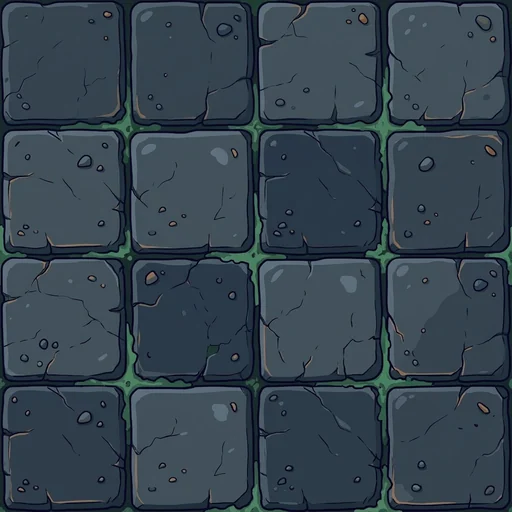
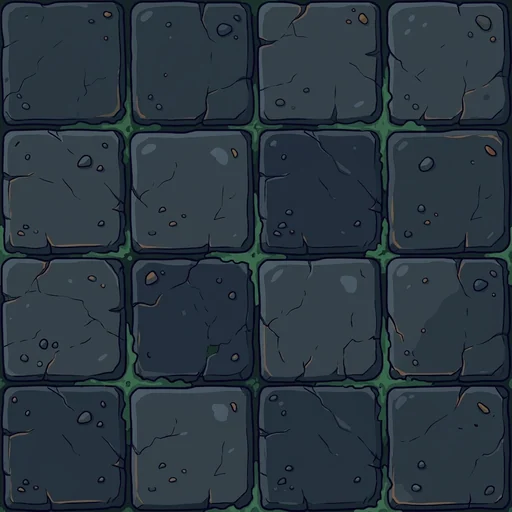
Haunted vault: the way through reads at a glance
Corridors are dark planks and the walls lighter stone with a lit rim and a
shadow at their foot, so walls and paths no longer look alike. The safe's room
keeps a darker stone floor.

diff --git a/apps/web/src/components/heist/render.ts b/apps/web/src/components/heist/render.ts
@@ -210,7 +210,9 @@ export class VaultRenderer {
         if (tileAt(level, x, y) === Tile.Wall) continue;
         const floor = tileAt(level, x, y) === Tile.Exit ? 'exit' : this.floorOf(x, y);
         if (H && floor !== 'exit') {
-          g.fillStyle = floor === 'wood' || floor === 'carpet' ? planks! : stone!;
+          // Corridors are old planks, the safe's room is stone: either way darker than the stone walls, so
+          // the way through reads at a glance.
+          g.fillStyle = floor === 'gold' ? stone! : planks!;
           g.fillRect(this.tx(x), this.ty(y), t, t);
         } else this.floorTile(g, x, y, floor);
       }
@@ -479,8 +481,21 @@ export class VaultRenderer {
     if (!isWall(-1, 0)) g.fillRect(px, top, lw, t + (isWall(0, 1) ? 0 : lift));
     if (!isWall(1, 0)) g.fillRect(px + t - lw, top, lw, t + (isWall(0, 1) ? 0 : lift));
     if (!isWall(0, 1)) g.fillRect(px, top + t - 1, t, lw);
-    g.fillStyle = 'rgba(170, 200, 230, 0.22)';
-    if (!isWall(0, -1)) g.fillRect(px + (isWall(-1, 0) ? 0 : lw), top + lw, t - lw * 2, 1.5);
+    // A lit rim round the top's edges (moonlight from above), so each block reads as raised stone.
+    const rim = Math.max(2, t * 0.06);
+    g.fillStyle = 'rgba(200, 225, 255, 0.32)';
+    if (!isWall(0, -1)) g.fillRect(px, top + lw, t, rim);
+    if (!isWall(-1, 0)) g.fillRect(px + lw, top, rim, t);
+    if (!isWall(1, 0)) g.fillRect(px + t - lw - rim * 0.7, top, rim * 0.7, t);
+    // The wall's shadow on the floor in front of it.
+    if (!isWall(0, 1) && y < level.h - 1) {
+      const sy = top + t + lift;
+      const sh = g.createLinearGradient(0, sy, 0, sy + t * 0.5);
+      sh.addColorStop(0, 'rgba(3, 2, 10, 0.6)');
+      sh.addColorStop(1, 'rgba(3, 2, 10, 0)');
+      g.fillStyle = sh;
+      g.fillRect(px, sy, t, t * 0.5);
+    }
   }
 
   /**

diff --git a/tools/images/halloween.ts b/tools/images/halloween.ts
@@ -16,9 +16,9 @@ const SETS = [
 
 /** Textures: the size each repeat is stored at, and how much darker / greyer it's made. */
 const TEXTURES: Record<string, { w: number; h: number; brightness: number; saturation: number }> = {
-  'h-floor-stone': { w: 512, h: 512, brightness: 0.62, saturation: 0.62 },
-  'h-floor-wood': { w: 512, h: 512, brightness: 0.95, saturation: 0.9 },
-  'h-wall-top': { w: 512, h: 344, brightness: 0.85, saturation: 0.85 },
+  'h-floor-stone': { w: 512, h: 512, brightness: 0.5, saturation: 0.55 },
+  'h-floor-wood': { w: 512, h: 512, brightness: 0.78, saturation: 0.85 },
+  'h-wall-top': { w: 512, h: 344, brightness: 1.12, saturation: 0.8 },
   'h-wall-front': { w: 512, h: 512, brightness: 0.9, saturation: 0.9 },
 };
 /** Things: the longest side after trimming. */
